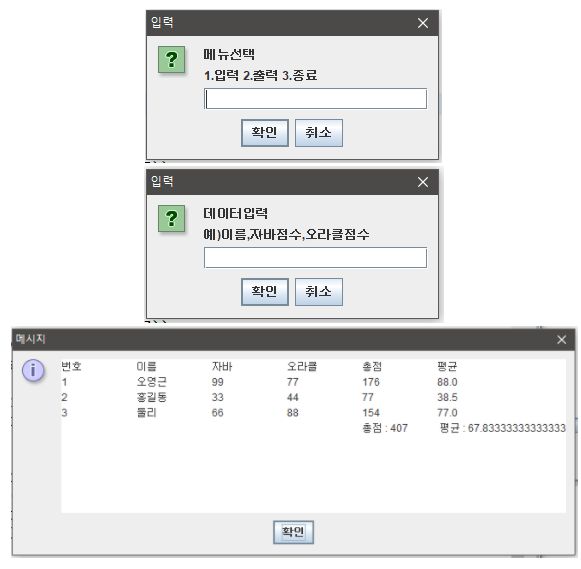
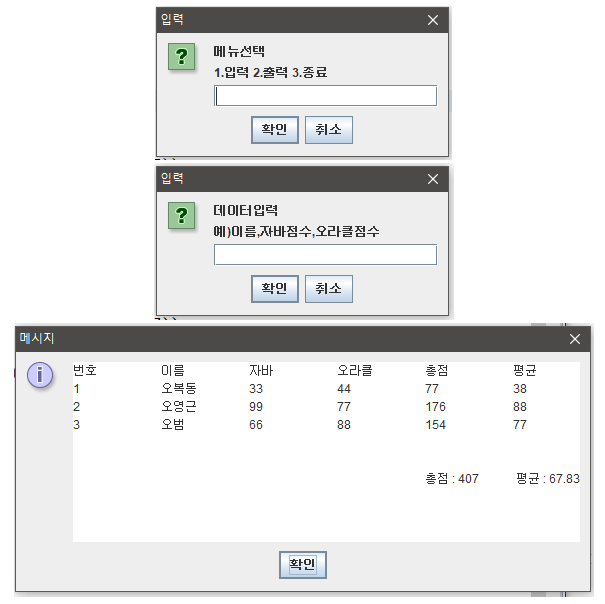
자바정리25

Changed region(s): [[0.0, 0.0, 1.0, 1.0]]

diff --git a/_posts/2018-12-17-java-정리-25.md b/_posts/2018-12-17-java-정리-25.md
@@ -529,8 +529,12 @@ public class Test2 {
 
 **1-4. 3이 입력되면 프로그램을 종료**
 
-[숙제풀이1 Run class](https://github.com/younggeun0/SSangYoung/blob/master/dev/workspace/sistJavaStudy/src/date181217/hw/Run.java)
+![14]((https://github.com/younggeun0/younggeun0.github.io/blob/master/_posts/img/java/25/14.png?raw=true))
 
-[숙제풀이2 DataVO class](https://github.com/younggeun0/SSangYoung/blob/master/dev/workspace/sistJavaStudy/src/date181217/hw/DataVO.java)
+[숙제풀이1-1 DataVO class](https://github.com/younggeun0/SSangYoung/blob/master/dev/workspace/sistJavaStudy/src/date181217/hwrevision/DataVO.java)
+
+[숙제풀이1-2 ProcessRun class](https://github.com/younggeun0/SSangYoung/blob/master/dev/workspace/sistJavaStudy/src/date181217/hwrevision/ProcessRun.java)
+
+[숙제풀이1-3 Process class](https://github.com/younggeun0/SSangYoung/blob/master/dev/workspace/sistJavaStudy/src/date181217/hwrevision/Process.java)
 
 ![13](https://github.com/younggeun0/younggeun0.github.io/blob/master/_posts/img/java/25/13.png?raw=true)
